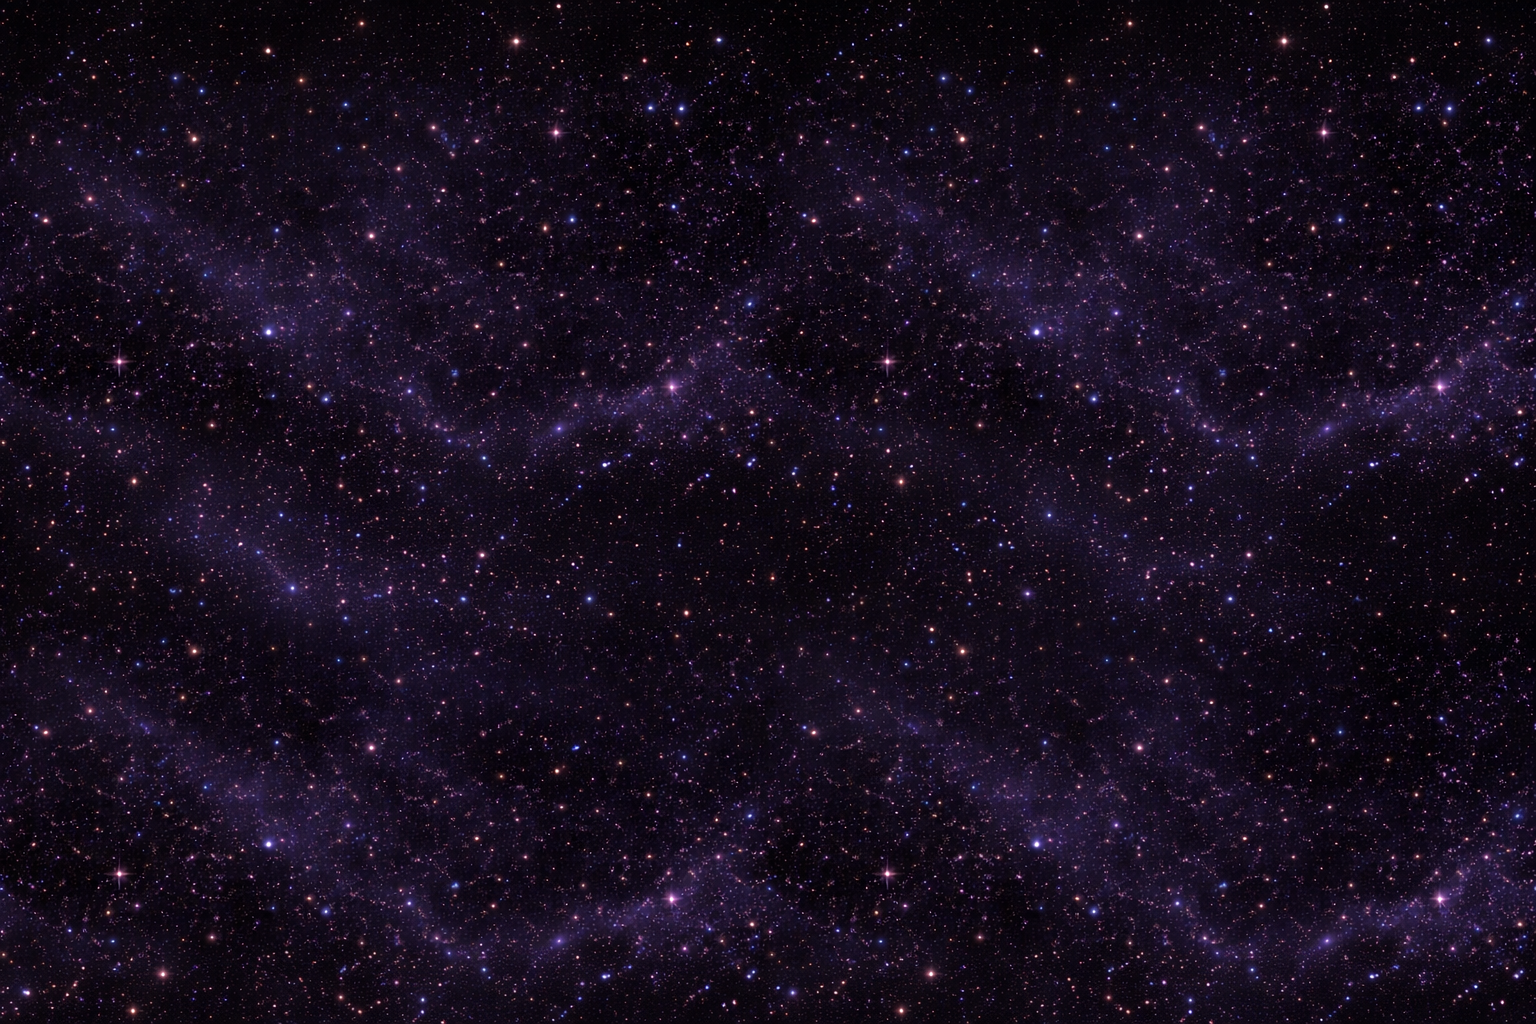
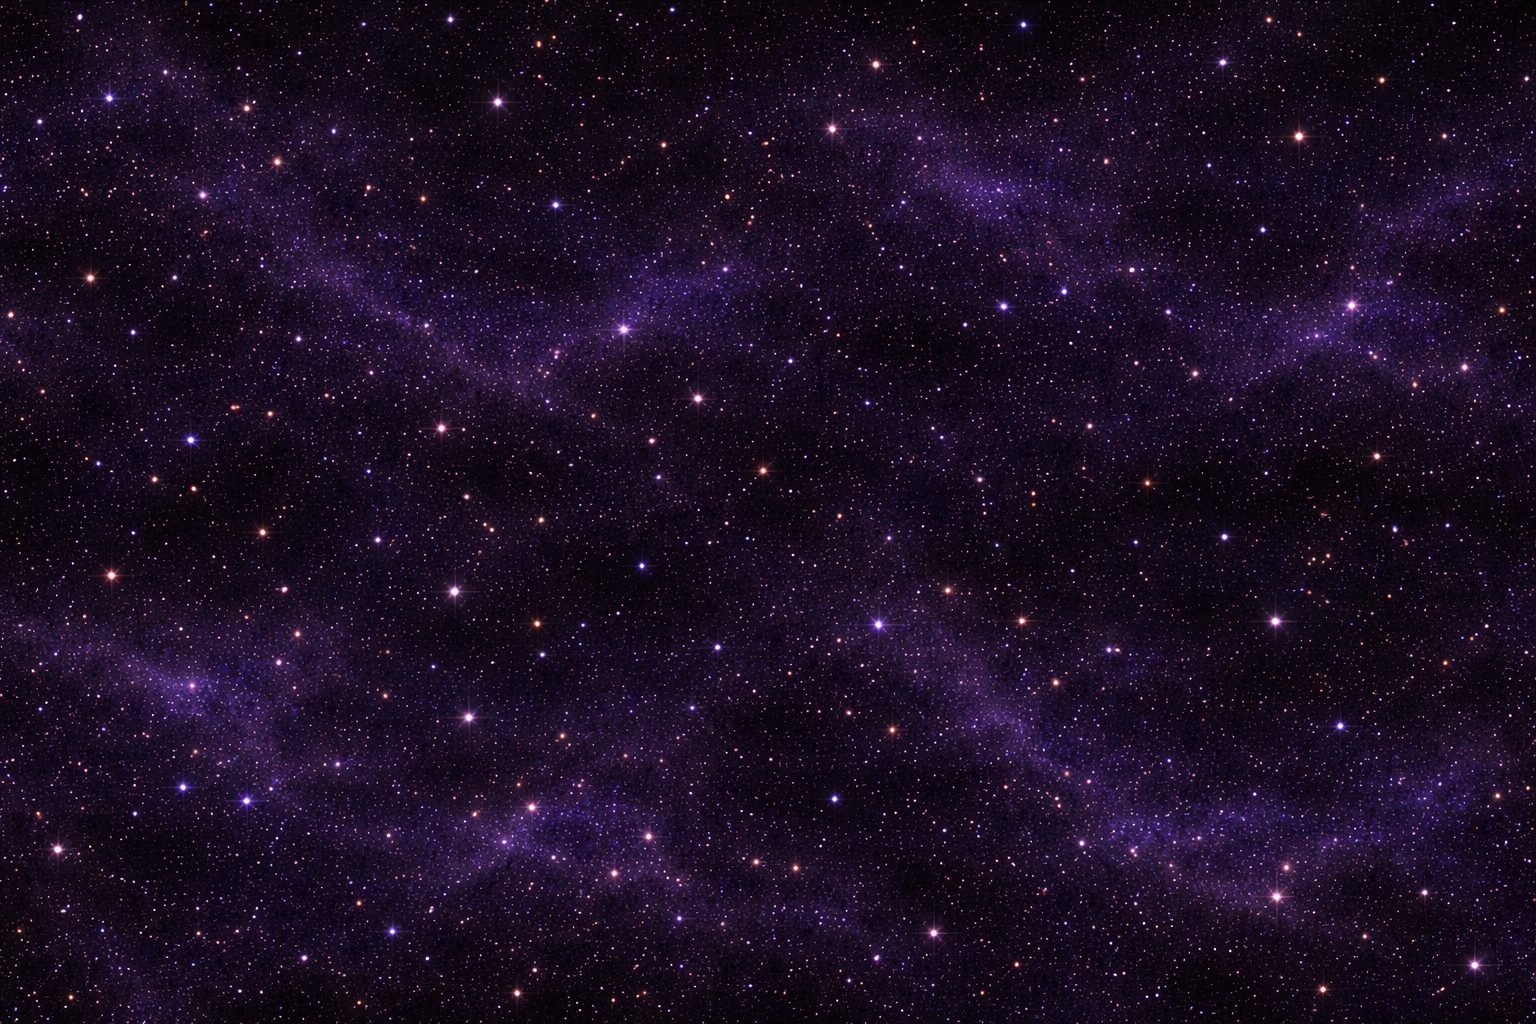
feat: implement tiled background with random flips for enhanced visual effect on passions page

diff --git a/components/pages/passions-page.tsx b/components/pages/passions-page.tsx
@@ -2,7 +2,7 @@
 
 import type React from "react"
 
-import { useEffect, useState, useRef } from "react"
+import { useEffect, useState, useRef, useMemo } from "react"
 import { cn } from "@/lib/utils"
 import Image from "next/image"
 import SparkleOverlay from "@/components/sparkle-overlay"
@@ -21,6 +21,71 @@ interface Passion {
   pinPosition: { top: string; left: string }
   cardOffset: { x: number; y: number }
   pinColor: "orange" | "blue"
+}
+
+// Component for tiled background with random flips
+const TiledBackground: React.FC<{ sceneReady: boolean }> = ({ sceneReady }) => {
+  const canvasRef = useRef<HTMLCanvasElement>(null)
+  const [imgLoaded, setImgLoaded] = useState(false)
+
+  useEffect(() => {
+    if (!canvasRef.current || !imgLoaded || !sceneReady) return
+
+    const canvas = canvasRef.current
+    const ctx = canvas.getContext("2d")
+    if (!ctx) return
+
+    // Set canvas size to viewport
+    const width = window.innerWidth
+    const height = window.innerHeight
+    canvas.width = width
+    canvas.height = height
+
+    // Load and draw the background image
+    const img = new window.Image()
+    img.src = "/images/projectspagebackground.png"
+
+    img.onload = () => {
+      const tileSize = 320
+      const cols = Math.ceil(width / tileSize) + 2
+      const rows = Math.ceil(height / tileSize) + 2
+
+      // Seed for consistent random flips during the session
+      for (let row = 0; row < rows; row++) {
+        for (let col = 0; col < cols; col++) {
+          const x = col * tileSize - tileSize
+          const y = row * tileSize - tileSize
+
+          // Simple hash for consistent randomness per position
+          const seed = col + row * 1000
+          const shouldFlipX = (seed * 73 + 1) % 2 === 0
+          const shouldFlipY = (seed * 97 + 1) % 2 === 0
+
+          ctx.save()
+          ctx.translate(x + tileSize / 2, y + tileSize / 2)
+
+          if (shouldFlipX) ctx.scale(-1, 1)
+          if (shouldFlipY) ctx.scale(1, -1)
+
+          ctx.drawImage(img, -tileSize / 2, -tileSize / 2, tileSize, tileSize)
+          ctx.restore()
+        }
+      }
+    }
+  }, [imgLoaded, sceneReady])
+
+  useEffect(() => {
+    const img = new window.Image()
+    img.onload = () => setImgLoaded(true)
+    img.src = "/images/projectspagebackground.png"
+  }, [])
+
+  return (
+    <canvas
+      ref={canvasRef}
+      className={cn("absolute inset-0 transition-all duration-1000", sceneReady ? "opacity-100" : "opacity-0")}
+    />
+  )
 }
 
 const passions: Passion[] = [
@@ -108,13 +173,8 @@ export default function PassionsPage({ isActive, isTransitioning, transitionDire
     >
       <div className="absolute inset-0 overflow-hidden">
         <div className="absolute inset-0 bg-black" />
-        <div
-          className={cn(
-            "absolute inset-0 bg-[url('/images/projectspagebackground.png')] bg-[length:320px_320px] bg-repeat bg-[center_92%]",
-            sceneReady ? "animate-star-rise" : "translate-y-6 opacity-0",
-          )}
-        />
-        <div className="absolute inset-0 bg-gradient-to-t from-black via-black/70 to-transparent" />
+        <TiledBackground sceneReady={sceneReady} />
+        <div className="absolute inset-0 bg-black/70" />
         <SparkleOverlay count={40} />
       </div>
 
@@ -189,8 +249,8 @@ export default function PassionsPage({ isActive, isTransitioning, transitionDire
 
                 <div
                   className={cn(
-                    "absolute z-30 w-48 md:w-56 transition-all duration-300 pointer-events-none",
-                    hoveredPassion === passion.id ? "opacity-100 scale-100" : "opacity-0 scale-95",
+                    "absolute z-50 w-48 md:w-56 transition-all duration-300",
+                    hoveredPassion === passion.id ? "opacity-40 scale-100 pointer-events-auto" : "opacity-0 scale-95 pointer-events-none",
                   )}
                   style={{
                     top: passion.pinPosition.top,
